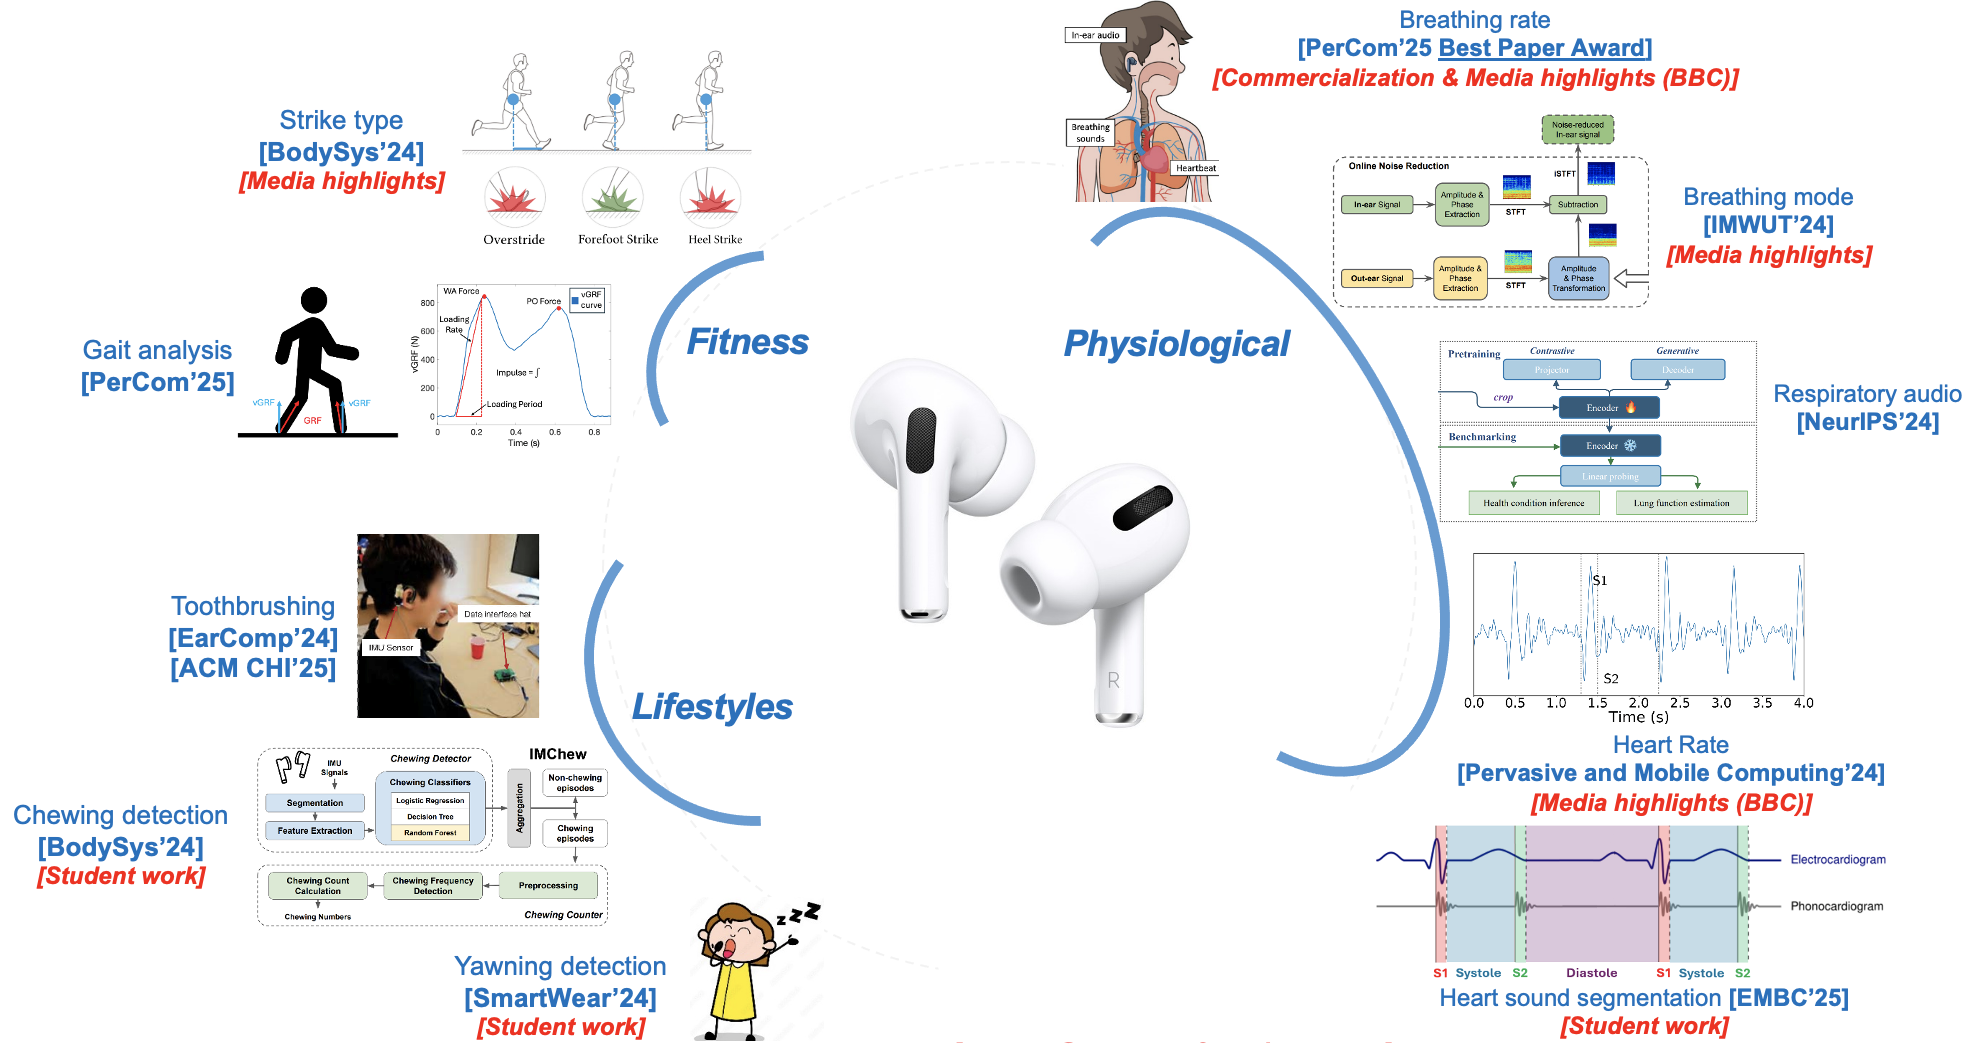
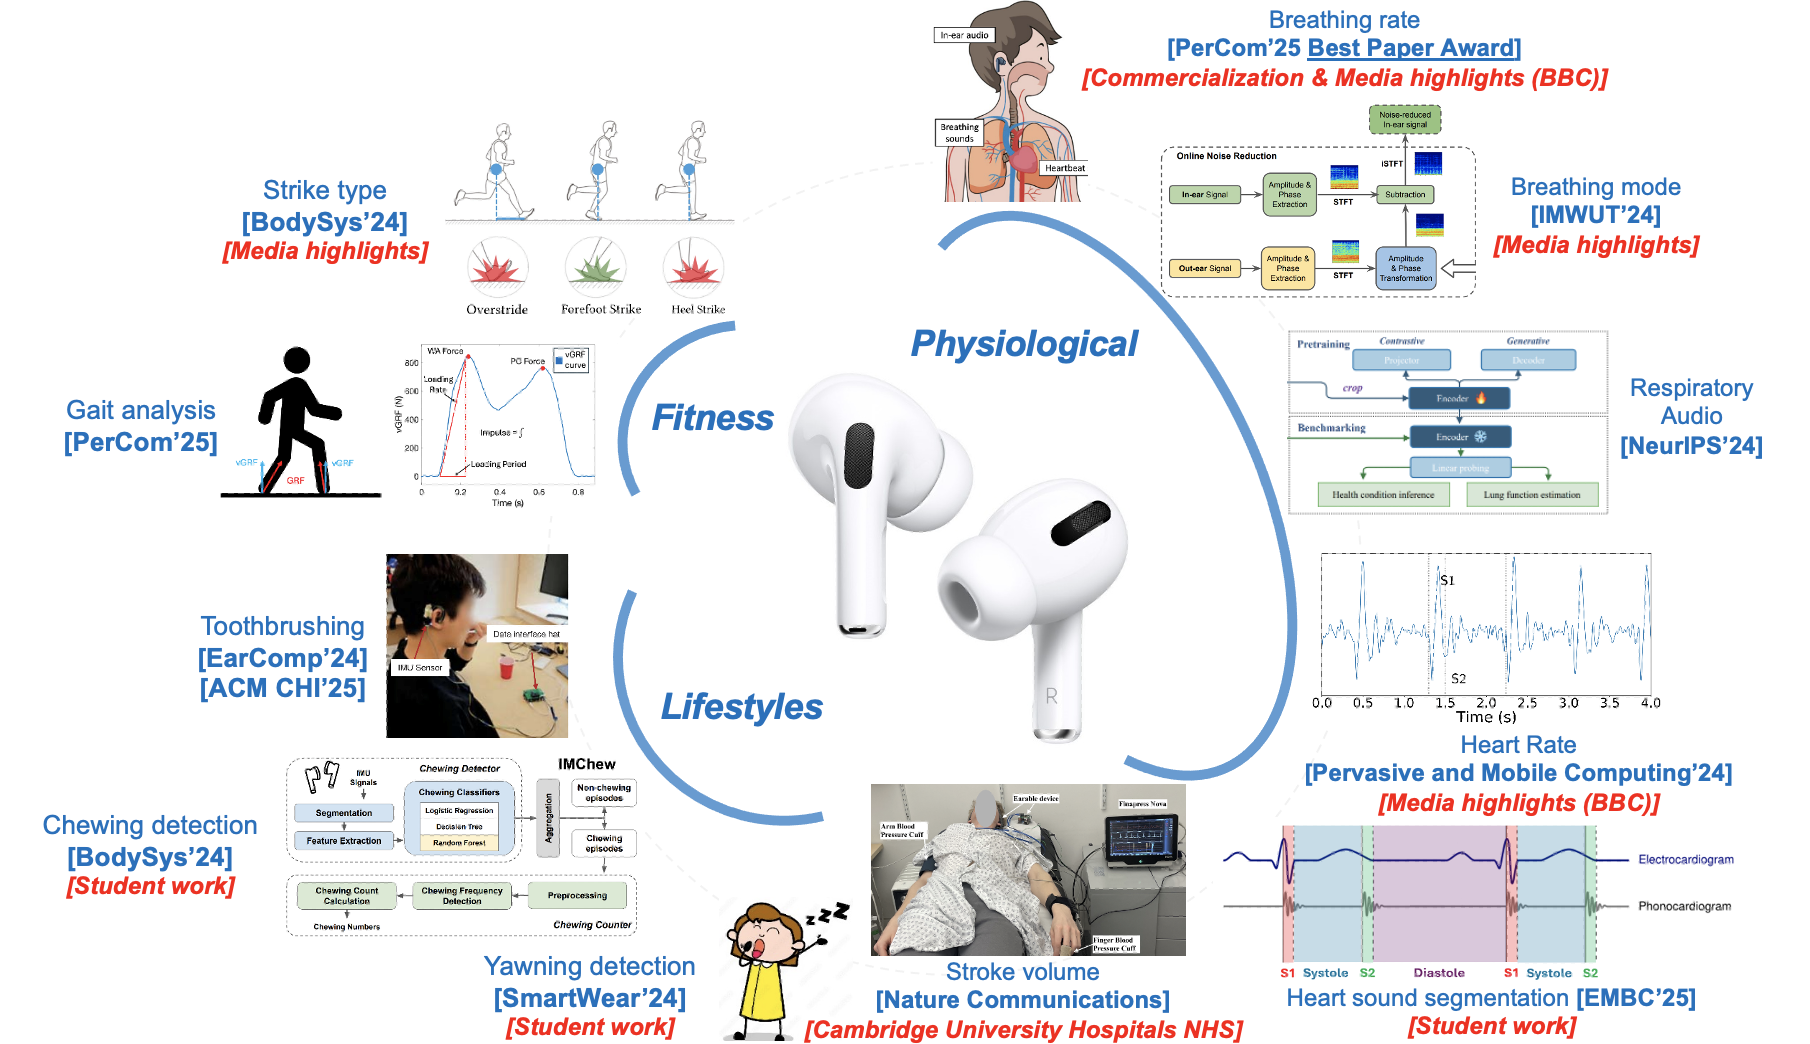
Update content and layout for mentorship, teaching, and projects

Changed region(s): [[0.0, 0.0, 0.9901, 1.0], [0.1238, 0.0613, 0.6188, 0.705]]

diff --git a/_pages/cv.md b/_pages/cv.md
@@ -60,7 +60,7 @@ To enable ubiquitous, practical, and user-friendly perception models, this resea
 
 Human Wellness Monitoring
 ======
-This research gathers insights into human health [<a href="https://dl.acm.org/doi/pdf/10.1145/3615592.3616854">SmartWear’23</a>, <a href="https://dl.acm.org/doi/10.1145/3675094.3680521">EarComp’24</a>, <a href="https://dl.acm.org/doi/pdf/10.1145/3662009.3662023">BodySys’24</a>, <a href="https://www.sciencedirect.com/science/article/pii/S1574119224000397">Pervasive and Mobile Computing Journal’24</a>, <a href="https://dl.acm.org/doi/pdf/10.1145/3659607">IMWUT’24</a>, <a href="https://arxiv.org/abs/2406.16148">NeurIPS’24</a>, <a href="https://mobile-systems.cl.cam.ac.uk/papers/respear.pdf">PerCom’25 Best Paper Award</a>, <a href="https://mobile-systems.cl.cam.ac.uk/papers/walkear.pdf">PerCom’25</a>, <a href="https://dl.acm.org/doi/pdf/10.1145/3706598.3713893">CHI’25</a>]. It primarily leverages earphones as versatile tools for tracking human wellness in diverse, real-world settings—enabling robust physiological and fitness monitoring and promoting healthier lifestyles. The work theoretically establishes and quantifies the relationships between physiological activities and biosignals collected near the ears, including acoustic and motion signals, and conducts in-depth analyses of interactions between physiological systems to uncover critical insights into their complex dynamics. These insights support the decoupling of intricate biosignals and the development of robust methods for accurate, non-invasive wellness monitoring.
+This research gathers insights into human health [<a href="https://dl.acm.org/doi/pdf/10.1145/3615592.3616854">SmartWear’23</a>, <a href="https://dl.acm.org/doi/10.1145/3675094.3680521">EarComp’24</a>, <a href="https://dl.acm.org/doi/pdf/10.1145/3662009.3662023">BodySys’24</a>, <a href="https://www.sciencedirect.com/science/article/pii/S1574119224000397">Pervasive and Mobile Computing Journal’24</a>, <a href="https://dl.acm.org/doi/pdf/10.1145/3659607">IMWUT’24</a>, <a href="https://arxiv.org/abs/2406.16148">NeurIPS’24</a>, <a href="https://mobile-systems.cl.cam.ac.uk/papers/respear.pdf">PerCom’25 Best Paper Award</a>, <a href="https://mobile-systems.cl.cam.ac.uk/papers/walkear.pdf">PerCom’25</a>, <a href="https://dl.acm.org/doi/pdf/10.1145/3706598.3713893">CHI’25</a>, [<a href="">Nature Communications'25</a>]. It primarily leverages earphones as versatile tools for tracking human wellness in diverse, real-world settings—enabling robust physiological and fitness monitoring and promoting healthier lifestyles. The work theoretically establishes and quantifies the relationships between physiological activities and biosignals collected near the ears, including acoustic and motion signals, and conducts in-depth analyses of interactions between physiological systems to uncover critical insights into their complex dynamics. These insights support the decoupling of intricate biosignals and the development of robust methods for accurate, non-invasive wellness monitoring.
 
 <p style="text-align: center;">
   <img src="/images/health.png" alt="Description" style="max-width: 888px; width: 100%;">
